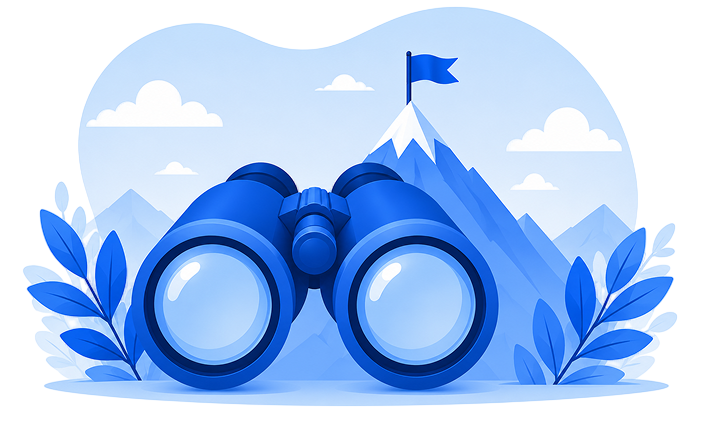
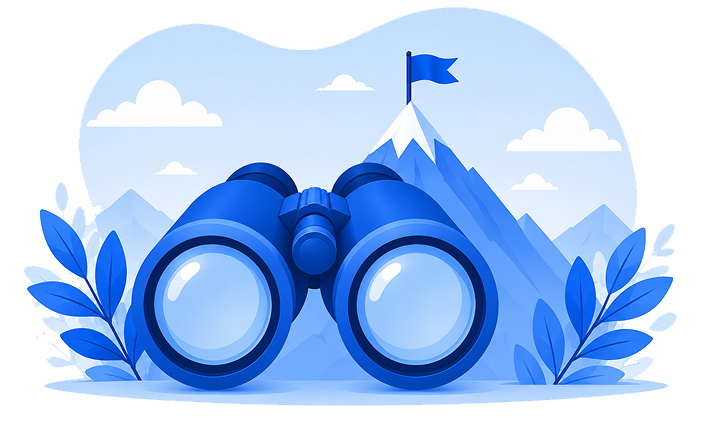
sasve 3

diff --git a/src/Components/Pages/About.jsx b/src/Components/Pages/About.jsx
@@ -6,7 +6,7 @@ import ScrollReveal from "../Animations/ScrollReveal.jsx";
 
 import missionImg from "../../assets/Website/mission.png";
 import missionDarkImg from "../../assets/Website/mission_dark.png";
-import communityImg from "../../assets/Website/community.jpg";
+import communityImg from "../../assets/Website/community.png";
 import communityDarkImg from "../../assets/Website/community_dark.png";
 import visionImg from "../../assets/Website/vision.png";
 import visionDarkImg from "../../assets/Website/vision_dark.png";
